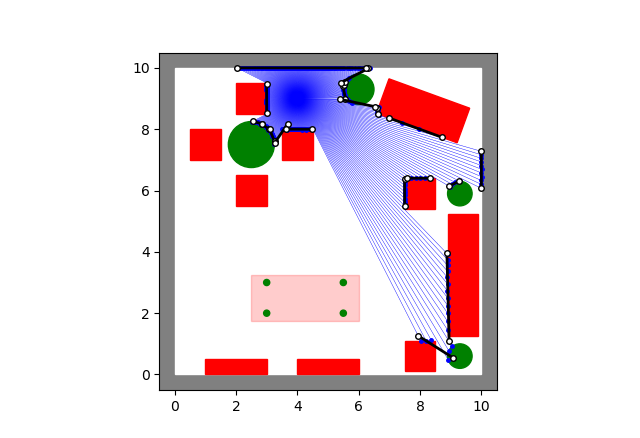
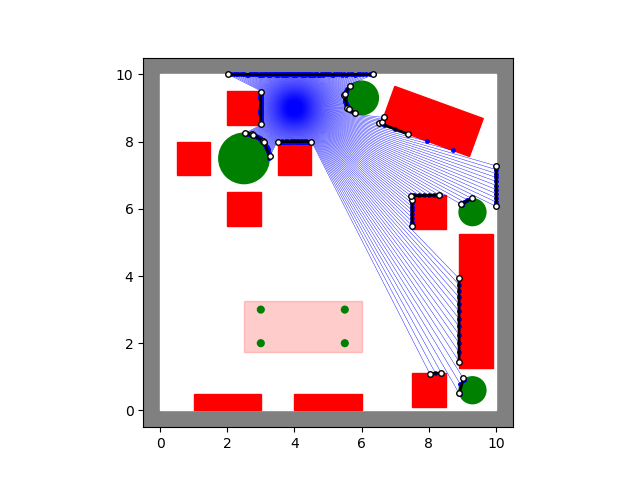
finished p2 and p3

diff --git a/Problem_3/linear_filter.py b/Problem_3/linear_filter.py
@@ -16,7 +16,23 @@ def corr(F, I):
         G: An (m, n)-shaped ndarray containing the correlation of the filter with the image.
     """
     ########## Code starts here ##########
-    raise NotImplementedError("Implement me!")
+    k, ell, _ = F.shape
+    m, n, _ = I.shape
+
+    pad_x = k // 2 
+    pad_y = ell // 2
+    I_prime = np.pad(I,
+                     ((pad_x, pad_x), (pad_y, pad_y), (0,0)),
+                     mode='constant')
+    
+    f = F.flatten()
+
+    G = np.zeros((m, n))
+    for i in range(m):
+        for j in range(n):
+            t = I_prime[i:i+k, j:j+ell, :].flatten()
+            G[i, j] = np.dot(f, t)
+    return G
     ########## Code ends here ##########
 
 
@@ -30,7 +46,23 @@ def norm_cross_corr(F, I):
         G: An (m, n)-shaped ndarray containing the normalized cross-correlation of the filter with the image.
     """
     ########## Code starts here ##########
-    raise NotImplementedError("Implement me!")
+    k, ell, _ = F.shape
+    m, n, _ = I.shape
+
+    pad_x = k // 2 
+    pad_y = ell // 2
+    I_prime = np.pad(I,
+                     ((pad_x, pad_x), (pad_y, pad_y), (0,0)),
+                     mode='constant')
+    
+    f = F.flatten()
+
+    G = np.zeros((m, n))
+    for i in range(m):
+        for j in range(n):
+            t = I_prime[i:i+k, j:j+ell, :].flatten()
+            G[i, j] = np.dot(f, t) / (np.linalg.norm(f) * np.linalg.norm(t))
+    return G
     ########## Code ends here ##########
 
 

diff --git a/Problem_2/ExtractLines.py b/Problem_2/ExtractLines.py
@@ -292,8 +292,8 @@ def main():
     # parameters for line extraction (mess with these!)
     MIN_SEG_LENGTH = 0.05  # minimum length of each line segment (m)
     LINE_POINT_DIST_THRESHOLD = 0.02  # max distance of pt from line to split
-    MIN_POINTS_PER_SEGMENT = 4  # minimum number of points per line segment
-    MAX_P2P_DIST = 1.0  # max distance between two adjent pts within a segment
+    MIN_POINTS_PER_SEGMENT = 1  # minimum number of points per line segment
+    MAX_P2P_DIST = 1.2  # max distance between two adjent pts within a segment
 
     # Data files are formated as 'rangeData_<x_r>_<y_r>_N_pts.csv
     # where x_r is the robot's x position

diff --git a/Problem_1/cam_calibrator.py b/Problem_1/cam_calibrator.py
@@ -441,15 +441,8 @@ class CameraCalibrator:
         for p in range(self.n_chessboards):
 
             M = []
-            # print("R[p]: ")
-            # print(R[p])
-            # print("t[p]: ")
-            # print(t[p])
             W = np.column_stack((R[p], t[p].T))
             for i in range(4):
-                # print("______________")
-                # print(W)
-                # print(np.array([X[p][ind_corners[i]], Y[p][ind_corners[i]], 0, 1]))
                 M_tld = W.dot(
                     np.array([X[p][ind_corners[i]], Y[p][ind_corners[i]], 0, 1])
                 )
